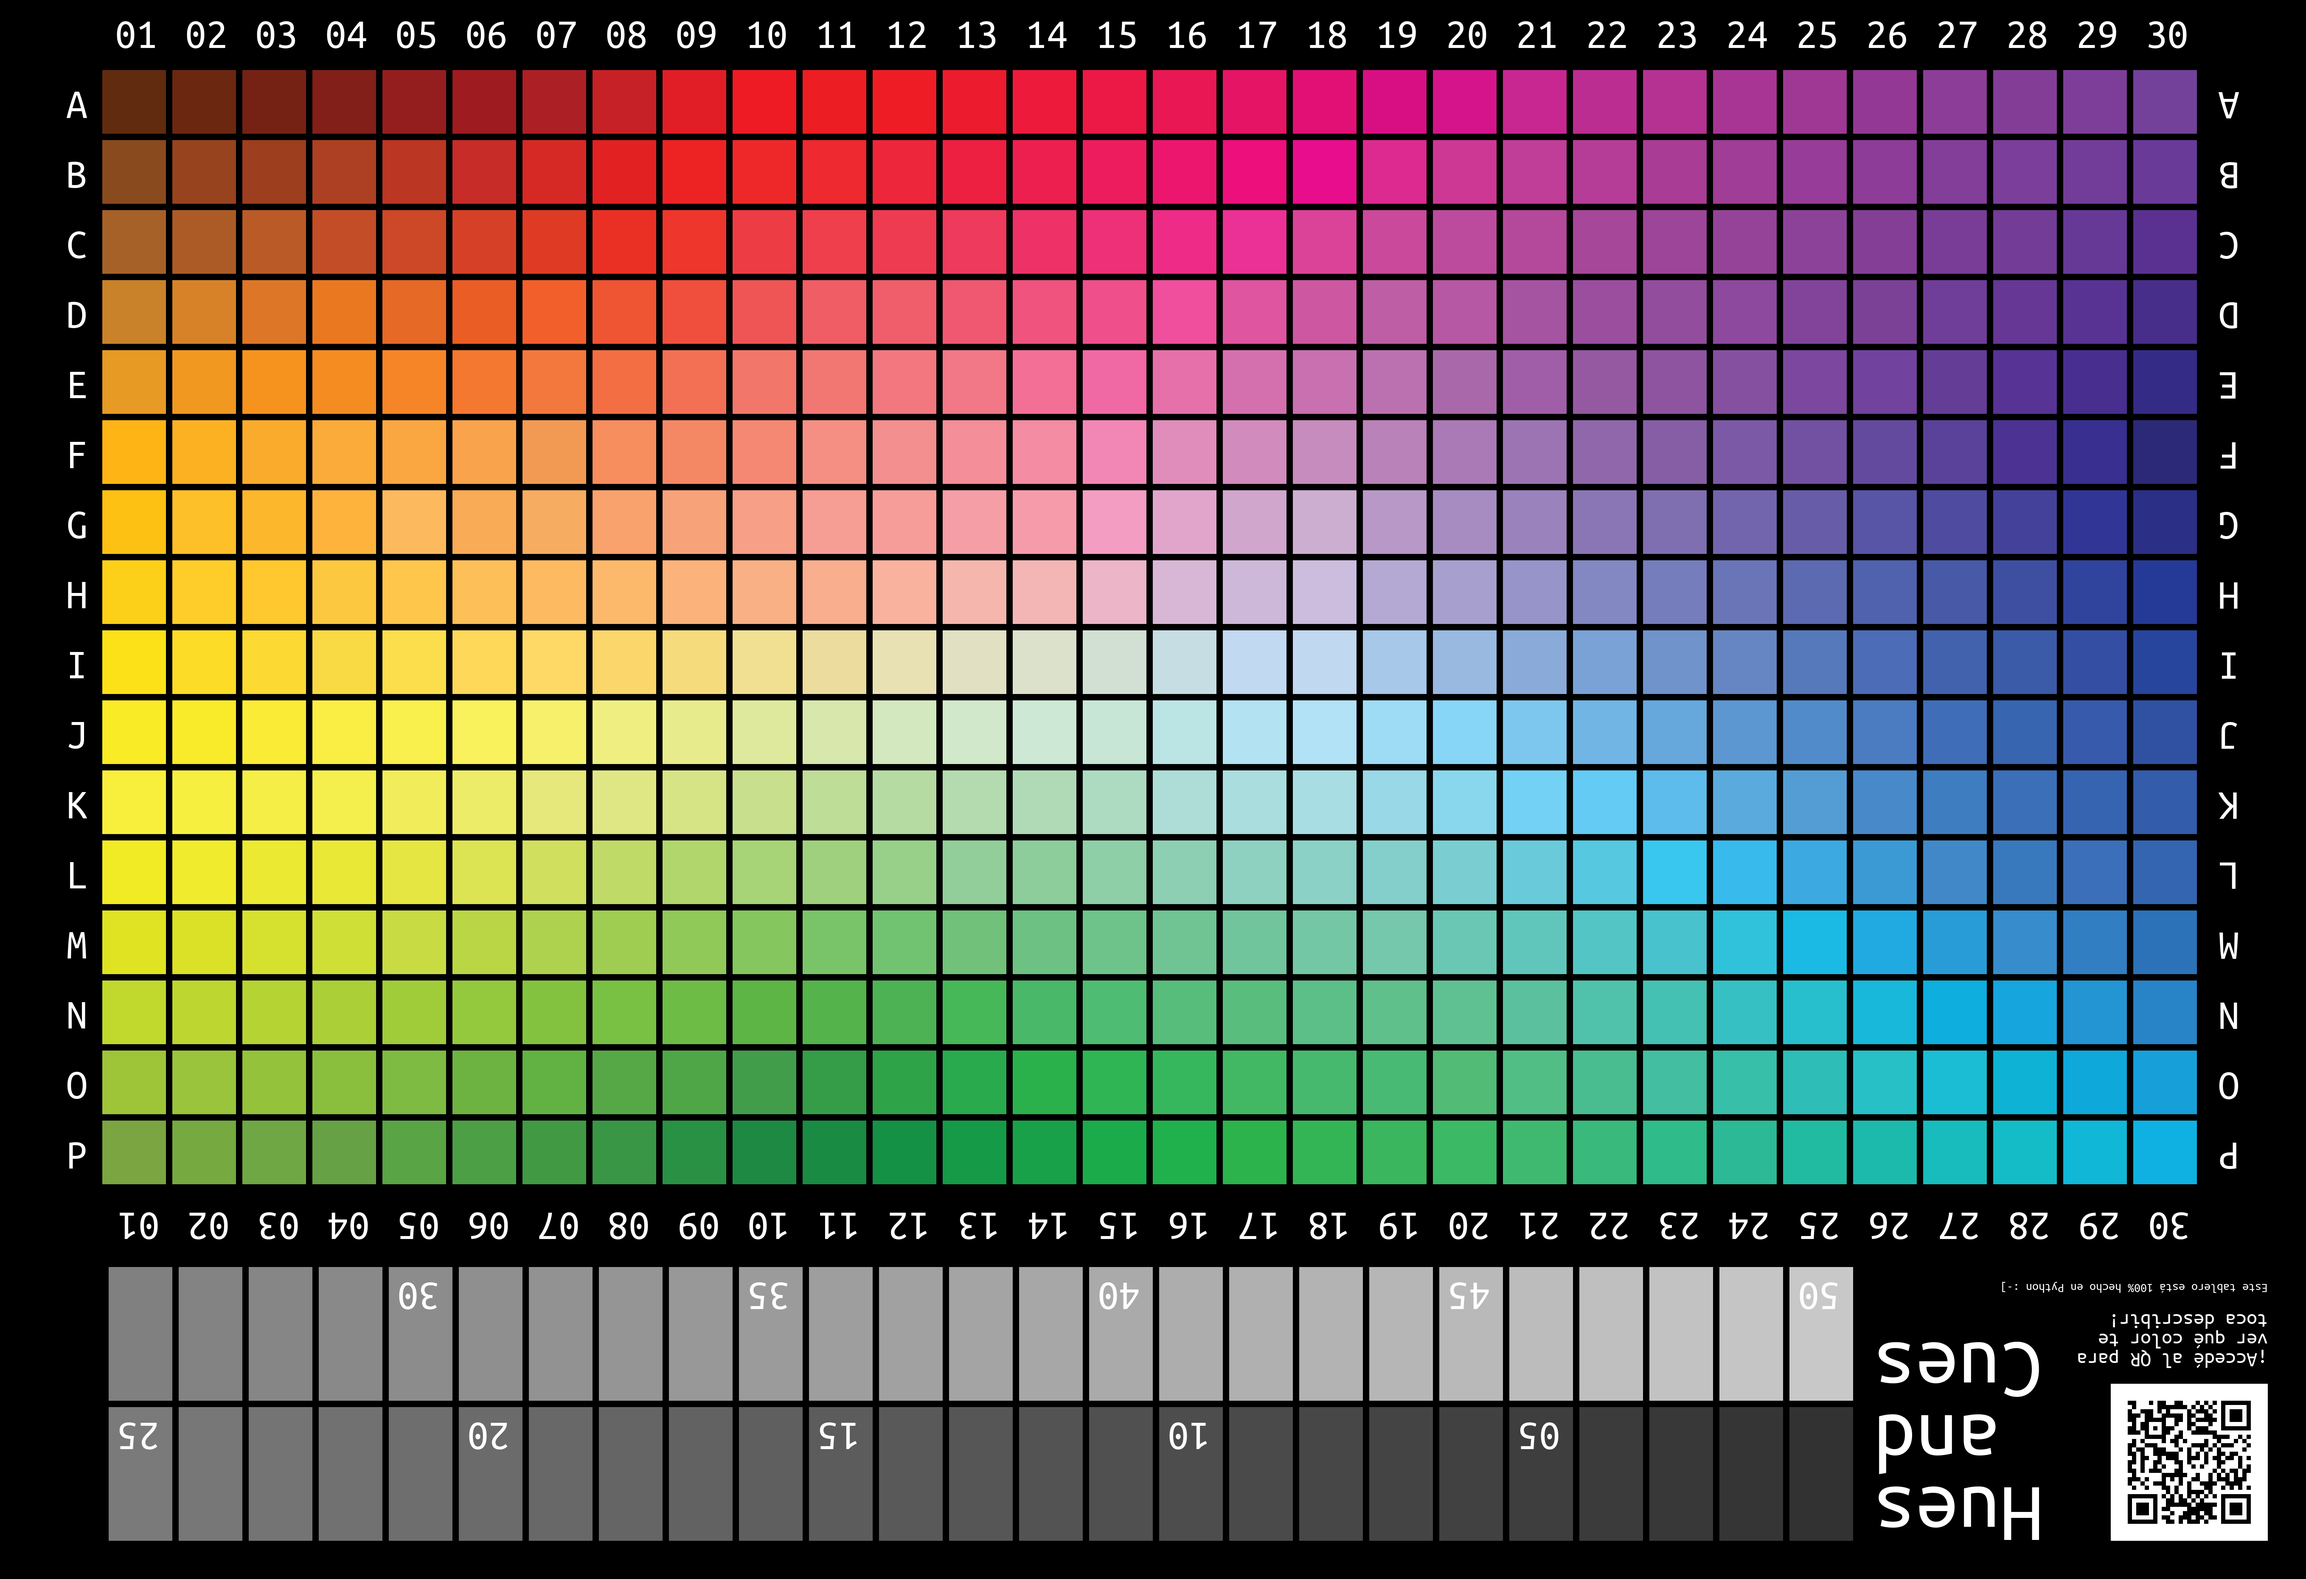
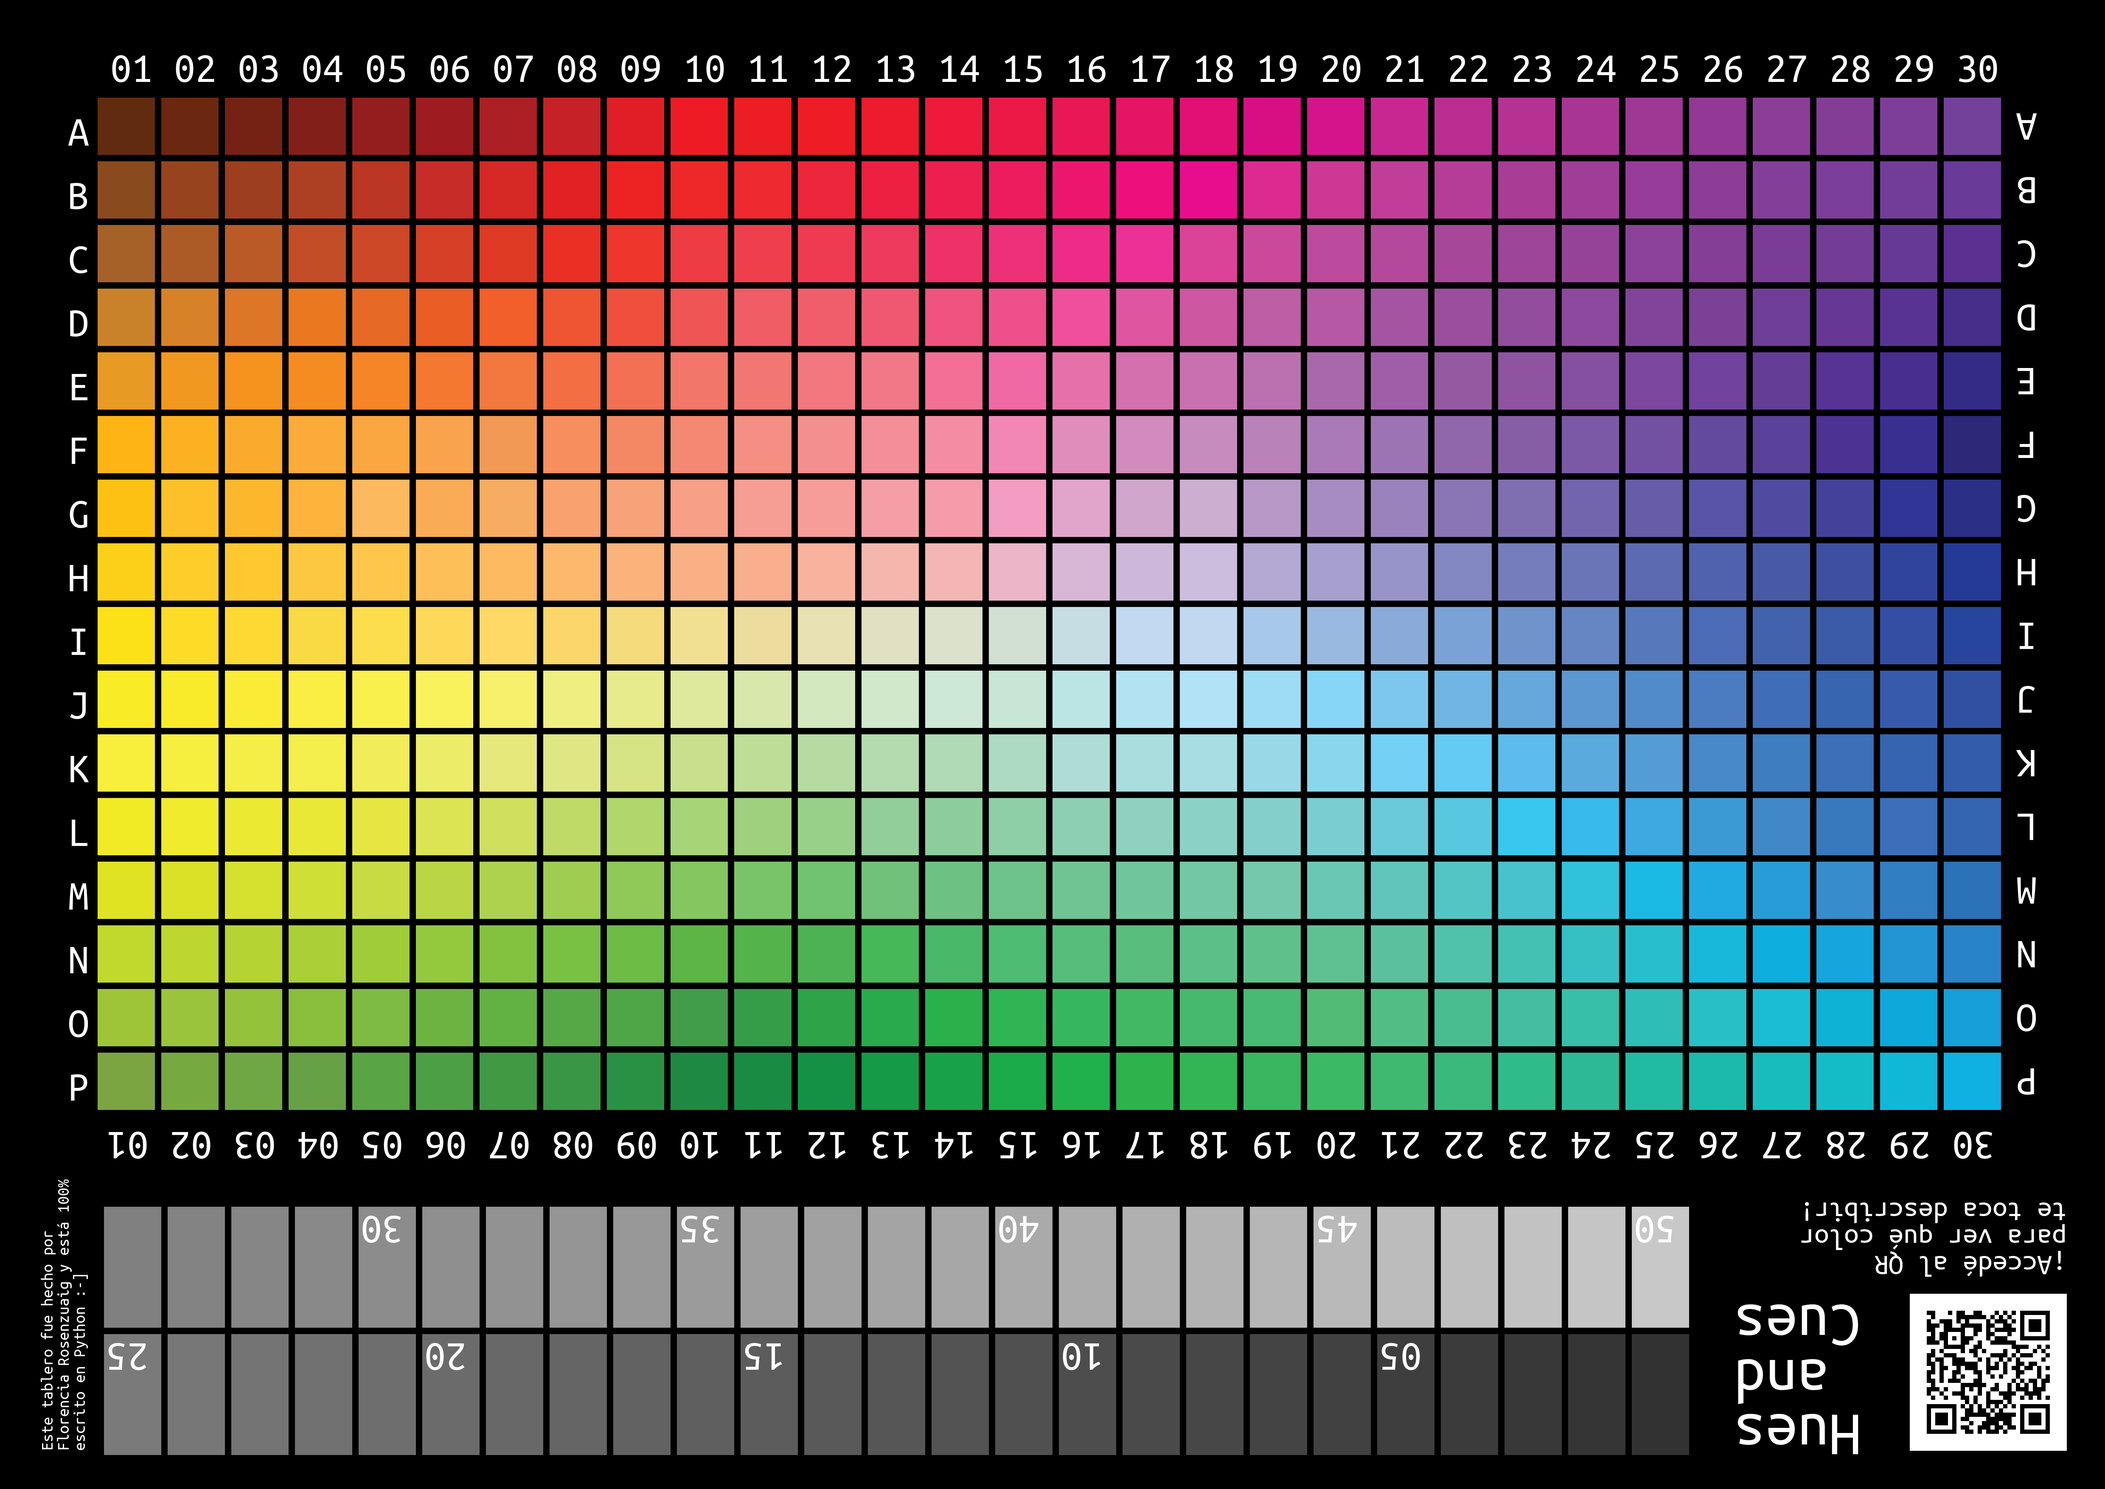
Ahora es A3 y emprolijé código

Changed region(s): [[0.0312, 0.0, 1.0, 0.9943]]

diff --git a/get colors and create board/create_board.py b/get colors and create board/create_board.py
@@ -3,85 +3,79 @@ from PIL import Image, ImageDraw, ImageFont
 import numpy as np
 import qrcode
 
+def draw_gray_rectangles(image, y, base_size, border, colors):
+
+    for index, color in enumerate(colors):
+        rectangle = Image.new('RGB', (base_size - border, base_size*2-border), (color,color,color))
+        image.paste(rectangle, (index * base_size, y))
+
+def write_numbers(image, y, spacing, numbers):
+    
+    draw = ImageDraw.Draw(image)
+    font = ImageFont.truetype(font='monospace.ttf', size=100)
+
+    for index, number in enumerate(numbers):
+        if number != "":
+            label = '{:0>2}'.format(number)
+            draw.text((index*spacing+30, y), label, fill="white", font=font)
+    
+def write_axis(image, spacing, x_axis, y_axis):
+
+    draw = ImageDraw.Draw(image)
+    font = ImageFont.truetype(font='monospace.ttf', size=100)
+    
+    # Escribo las letras de la derecha
+    write_letters(image, 30, spacing, y_axis)
+    for index, elem in enumerate(y_axis):
+        label = '{: >2}'.format(elem)
+        pos = (30, (index+1)*spacing+30)
+        draw.text(pos, label, fill="white", font=font)
+
+    # Escribo los números de arriba
+    for index, elem in enumerate(x_axis):
+        label = '{:0>2}'.format(elem)
+        pos = ((index+1)*spacing+30, 30)
+        draw.text(pos, label, fill="white", font=font)
+
 def create_board(matrix, square_size, border):
     
     # Creo cuadricula de colores
     height, width, _ = matrix.shape
 
+    # A3  = 3508 x 4960
     # A3+ = 3720 x 5433
-    board  = Image.new('RGB', (5433, 3720), "black")
+    board  = Image.new('RGB', (4960, 3508), "black")
     colors = Image.new('RGB', (32*square_size, 18*square_size), "black")
 
     # Armo los cuadrados de colores
-    for j in range(16):
-        for i in range(30):
-            color  = tuple(matrix[i, j])
+    for y in range(width):
+        for x in range(height):
+            color  = tuple(matrix[x, y])
             square = Image.new('RGB', (square_size - border,  square_size - border), color)
-            colors.paste(square, ((i+1) * square_size, (j+1) * square_size))
-
-    draw = ImageDraw.Draw(colors)
-    font = ImageFont.truetype(font='monospace.ttf', size=100)
+            colors.paste(square, ((x+1) * square_size, (y+1) * square_size))
     
-    # Escribo las letras de la derecha
-    for j in range(16):
-        draw.text((30, (j+1)*square_size+30), '{: >2}'.format(alphabet[j]), fill="white", font=font)
-
-    # Escribo los números de arriba
-    for i in range(30):
-        letter =  '{:0>2}'.format(i+1)
-        draw.text(((i+1)*square_size+30, 30),  letter, fill="white", font=font)
-
+    write_axis(colors, square_size, range(1,31), alphabet)
     colors=colors.rotate(180)
-    draw = ImageDraw.Draw(colors)
-
-    # Escribo las letras de la izquierda
-    for j in range(16):
-        draw.text((30, (j+1)*square_size+30), '{: >2}'.format(alphabet[15-j]), fill="white", font=font)
-    
-    # Escribo los números de abajo
-    for i in range(30):
-        letter =  '{:0>2}'.format(30-i)
-        draw.text(((i+1)*square_size+30, 30),  letter, fill="white", font=font)
-
+    write_axis(colors, square_size, range(30,0,-1), alphabet[::-1])
     colors=colors.rotate(180)
 
-    margin = (5433 - square_size*32)//2
-    board.paste(colors, (margin,0))
+    margin = (4960 - square_size*32)//2
+    board.paste(colors, (margin,margin))
 
     points = Image.new('RGB', (25*square_size, 4*square_size), "black")
 
-    # Armo la primer fila de rectángulos grises
-    gris = 50
-    for i in range(25):
-        square = Image.new('RGB', (square_size - border,     square_size*2-border), (gris, gris, gris))
-        points.paste(square, (i * square_size, 0))
-        gris = gris + 3
-
-    # Armo la segunda fila de rectángulos grises
-    gris = 50+50*3
-    for i in range(25):
-        square = Image.new('RGB', (square_size - border,     square_size*2-border), (gris, gris, gris))
-        points.paste(square, (i * square_size, square_size*2))
-        gris = gris - 3
-
+    draw_gray_rectangles(points,             0, square_size, border, range(50,126,3))
+    draw_gray_rectangles(points, square_size*2, square_size, border, range(200,125,-3))
 
     draw = ImageDraw.Draw(points)
+    font = ImageFont.truetype(font='monospace.ttf', size=100)
 
-    # Pongo los números de la primer fila
-    for i in range(5, 26, 5):
-        letter =  '{:0>2}'.format(i)
-        draw.text(((i-1)*square_size+30, square_size+30),  letter, fill="white", font=font)
-    
-    # Pongo los números de la primer fila
-    for i in range(0, 26, 5):
-        letter =  '{:0>2}'.format(50-i)
-        draw.text((i*square_size+30, square_size*3+ 30),  letter, fill="white", font=font)
-    
+    write_numbers(points,   square_size+30, square_size, [ i if i % 5 == 0 else "" for i in range(1,26)])
+    write_numbers(points, 3*square_size+30, square_size, [ i if i % 5 == 0 else "" for i in range(50,25,-1)])
 
     points = points.rotate(180)
 
-    board.paste(points, (margin+square_size, square_size*18))
-
+    board.paste(points, (margin+square_size, 3508-margin-square_size*4))
 
     board = board.rotate(180)
 
@@ -93,17 +87,25 @@ def create_board(matrix, square_size, border):
     titulo = r"""Hues
  and
 Cues"""
-    descripcion_qr = r"""¡Accedé al QR para
-ver qué color te
-toca describir!"""
-    draw.text((90,670),"Este tablero está 100% hecho en Python :-]", fill="white", font=ImageFont.truetype(font='monospace.ttf', size=30))
-    draw.text((90,490),descripcion_qr, fill="white", font=ImageFont.truetype(font='monospace.ttf', size=50))
-    draw.text((620,50),titulo, fill="white", font=ImageFont.truetype(font='monospace.ttf', size=200))
+    descripcion_qr = r"""¡Accedé al QR
+para ver qué color
+te toca describir!"""
+    comentario = r"""Este tablero fue hecho por
+Florencia Rosenzuaig y está 100%
+escrito en Python :-]"""
 
-    board = board.rotate(180)
+    draw.text((90,490),descripcion_qr, fill="white", font=ImageFont.truetype(font='monospace.ttf', size=70))
+    draw.text((575,50),titulo, fill="white", font=ImageFont.truetype(font='monospace.ttf', size=150))
+
+    board = board.rotate(90, expand=True)
+    draw = ImageDraw.Draw(board)
+
+    draw.text((90,90),comentario, fill="white", font=ImageFont.truetype(font='monospace.ttf', size=40))
+    
+    board = board.rotate(90, expand=True)
     board.show()
     board.save("board.png")
 
 
 matrix = save_to_numpy_array()
-create_board(matrix, 165, 15)
+create_board(matrix, 150, 15)
